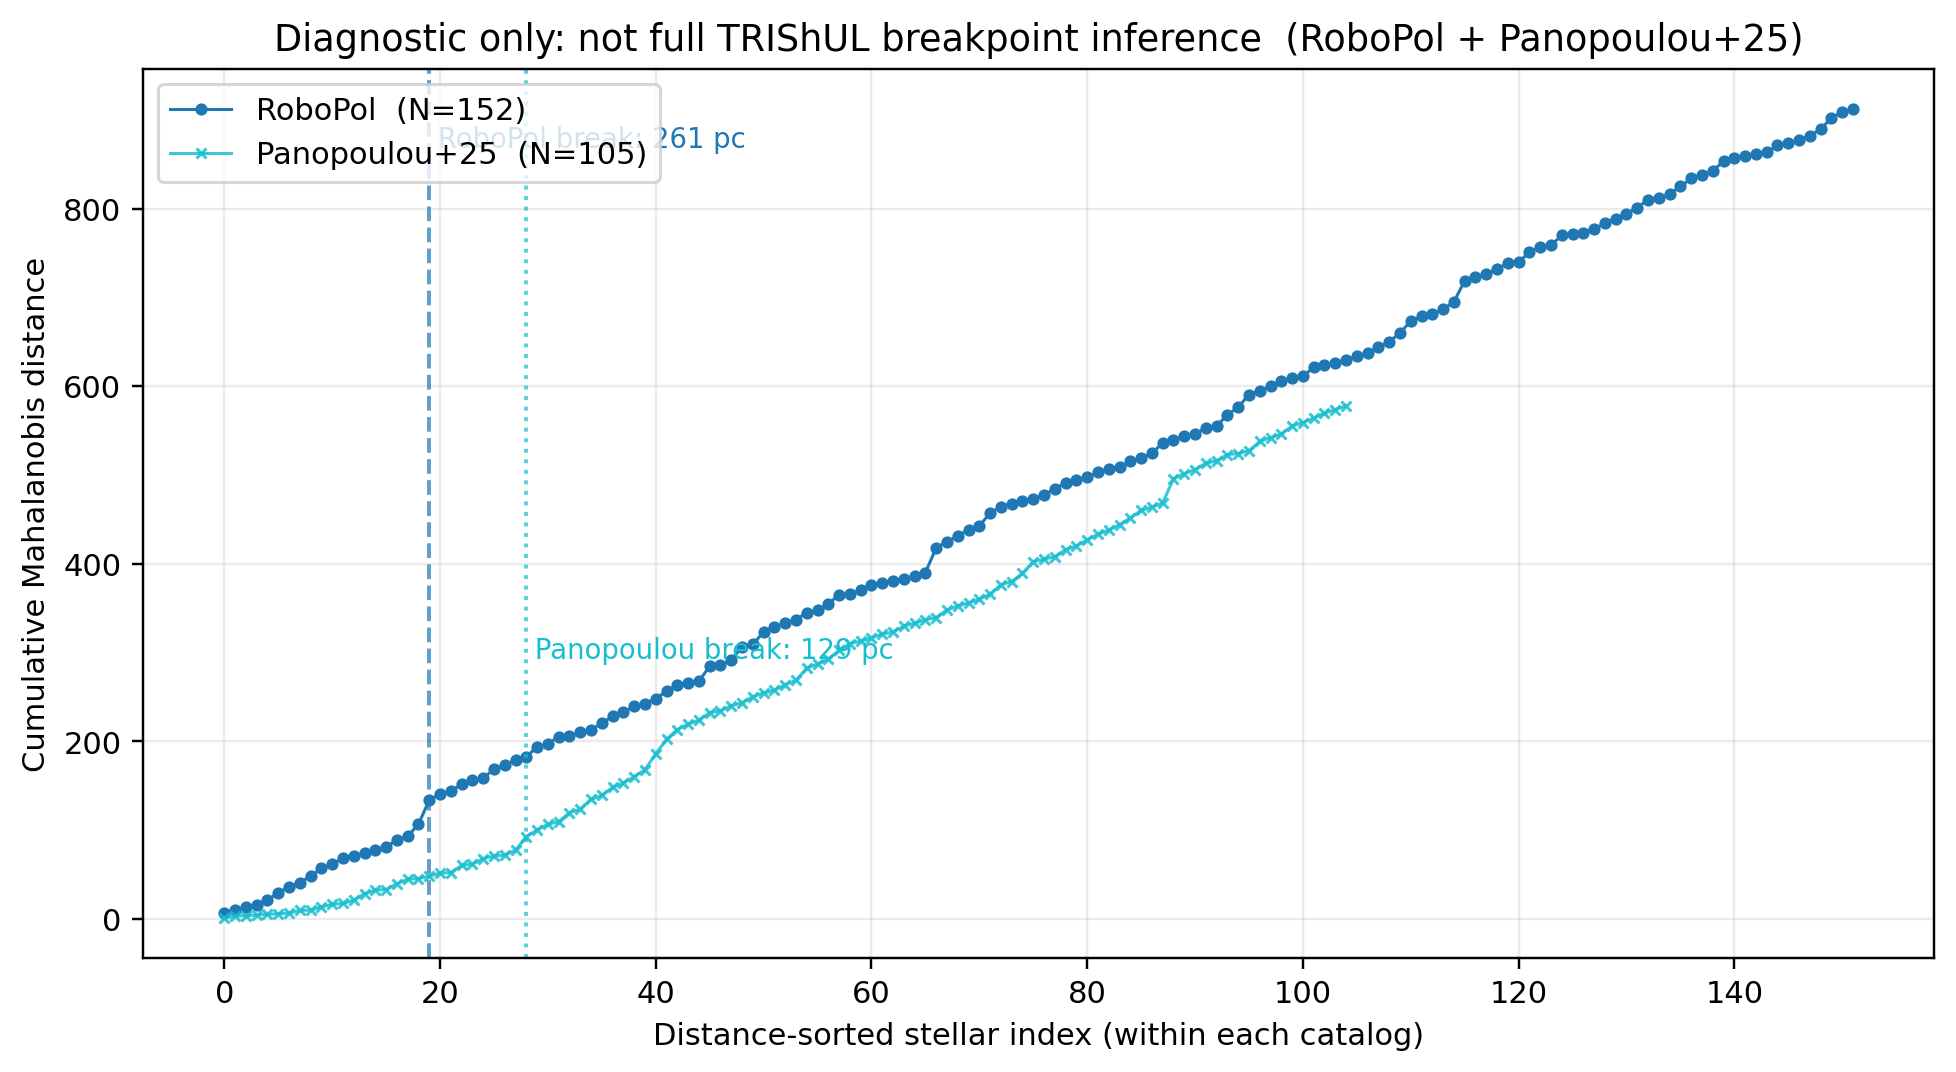
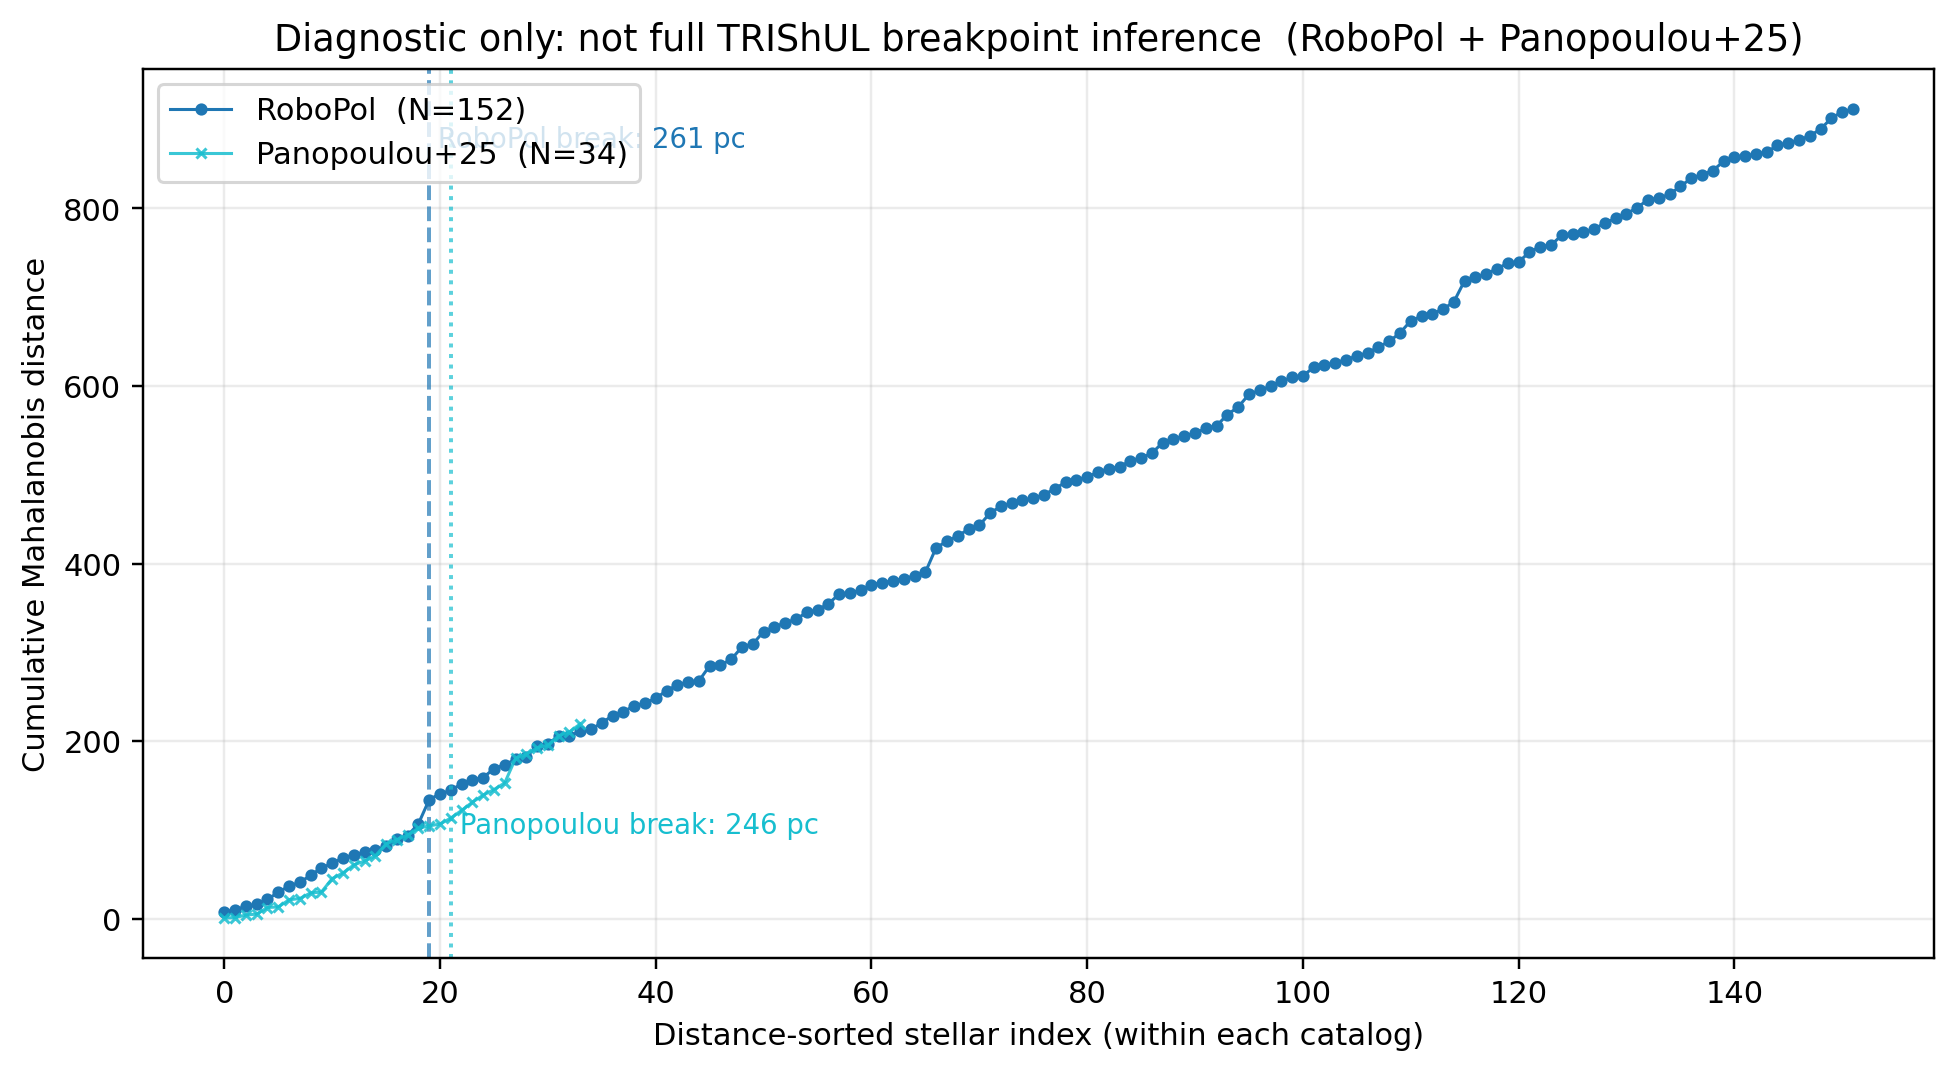
gaia tests with new polygon

diff --git a/4_gaia/markkanen_fig8_cloud_test.py b/4_gaia/markkanen_fig8_cloud_test.py
@@ -46,7 +46,8 @@ MERGED_CSV = r"../2_sky_plot/merged_output.csv"      # your RoboPol merged table
 BJ_CSV = r"bj_distances.csv"                          # Bailer-Jones distances for RoboPol stars
 
 # Panopoulou+25 catalog within the polygon (already has BJ distances merged)
-PANOPOULOU_CSV = r"../0_data/R/external_panopoulou_expanded_polygon.csv"
+#PANOPOULOU_CSV = r"../0_data/R/external_panopoulou_expanded_polygon.csv"
+PANOPOULOU_CSV = r"../0_data/R/external_panopoulou_combined_polygon.csv"
 
 # Toggle external overlay. Set False to reproduce the previous plot exactly.
 SHOW_PANOPOULOU = True

diff --git a/4_gaia/planck_scatter/panopoulou_systematic.py b/4_gaia/planck_scatter/panopoulou_systematic.py
@@ -35,7 +35,7 @@ ROBOPOL_CSV = os.path.expanduser(
 )
 
 PANOPOULOU_CSV = os.path.expanduser(
-    "~/Desktop/coursework/0_data/R/external_panopoulou_expanded_polygon.csv"
+    "~/Desktop/coursework/0_data/R/external_panopoulou_combined_polygon.csv"
 )
 
 OUT_DIR = os.path.expanduser(
